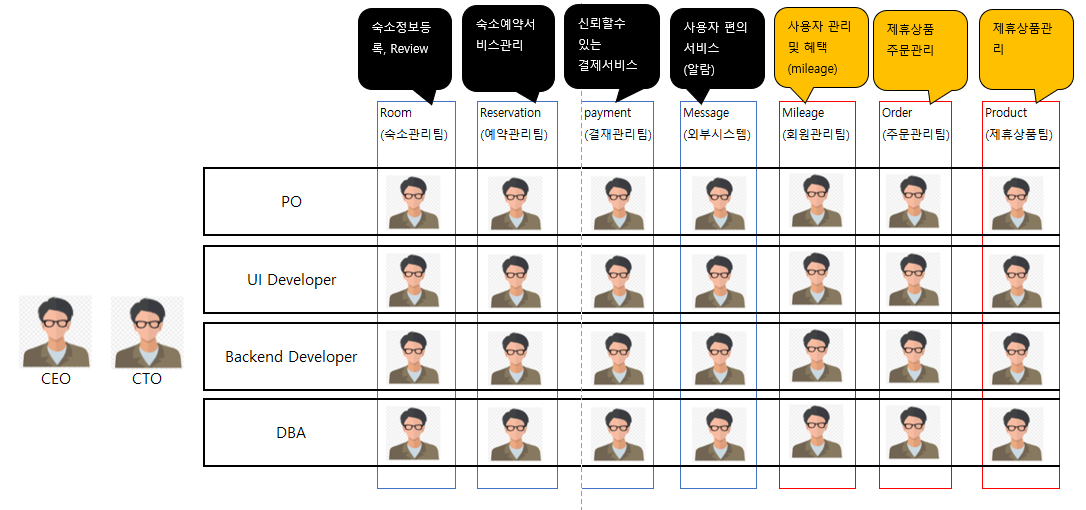
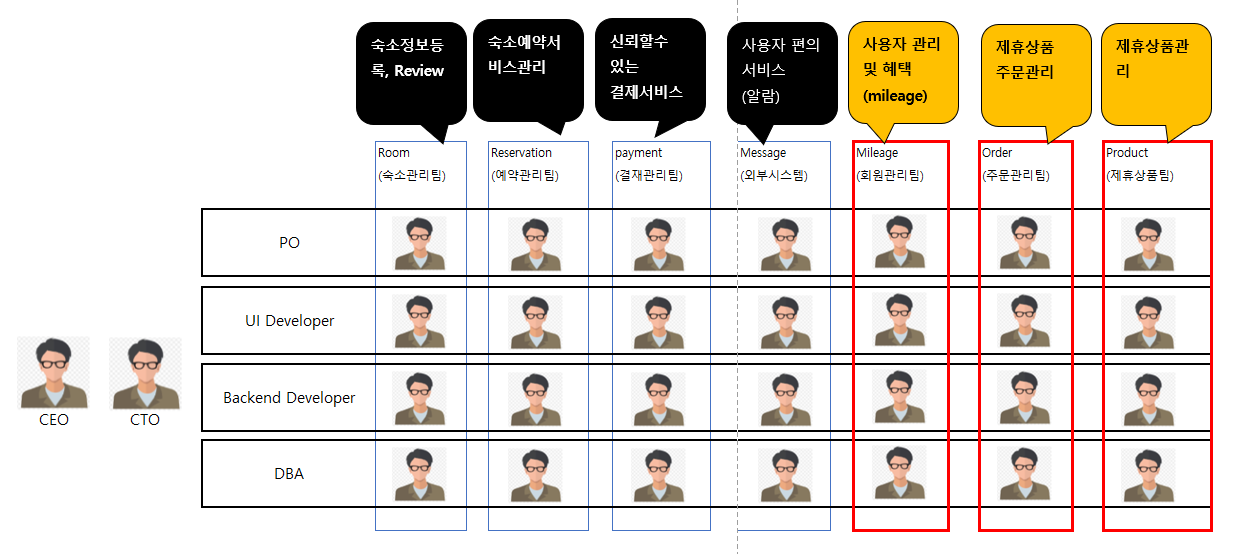
m

diff --git a/README.md b/README.md
@@ -138,7 +138,7 @@ Mileage 결제 및 제휴상품 구매 기능 추가하기
   ![image](https://user-images.githubusercontent.com/77129832/119316165-96ca3680-bcb1-11eb-9a91-f2b627890bab.png)
 
 ## TO-BE 조직 (Vertically-Aligned)  
-  ![TO-BE조직](https://user-images.githubusercontent.com/38099203/121190763-51f3f180-c8a6-11eb-8b09-b122dcf5f2bc.png)
+  ![TO-BE조직](https://user-images.githubusercontent.com/38099203/121192817-44d80200-c8a8-11eb-9fb7-2679ce77005e.png)
 
 
 ## Event Storming 결과
